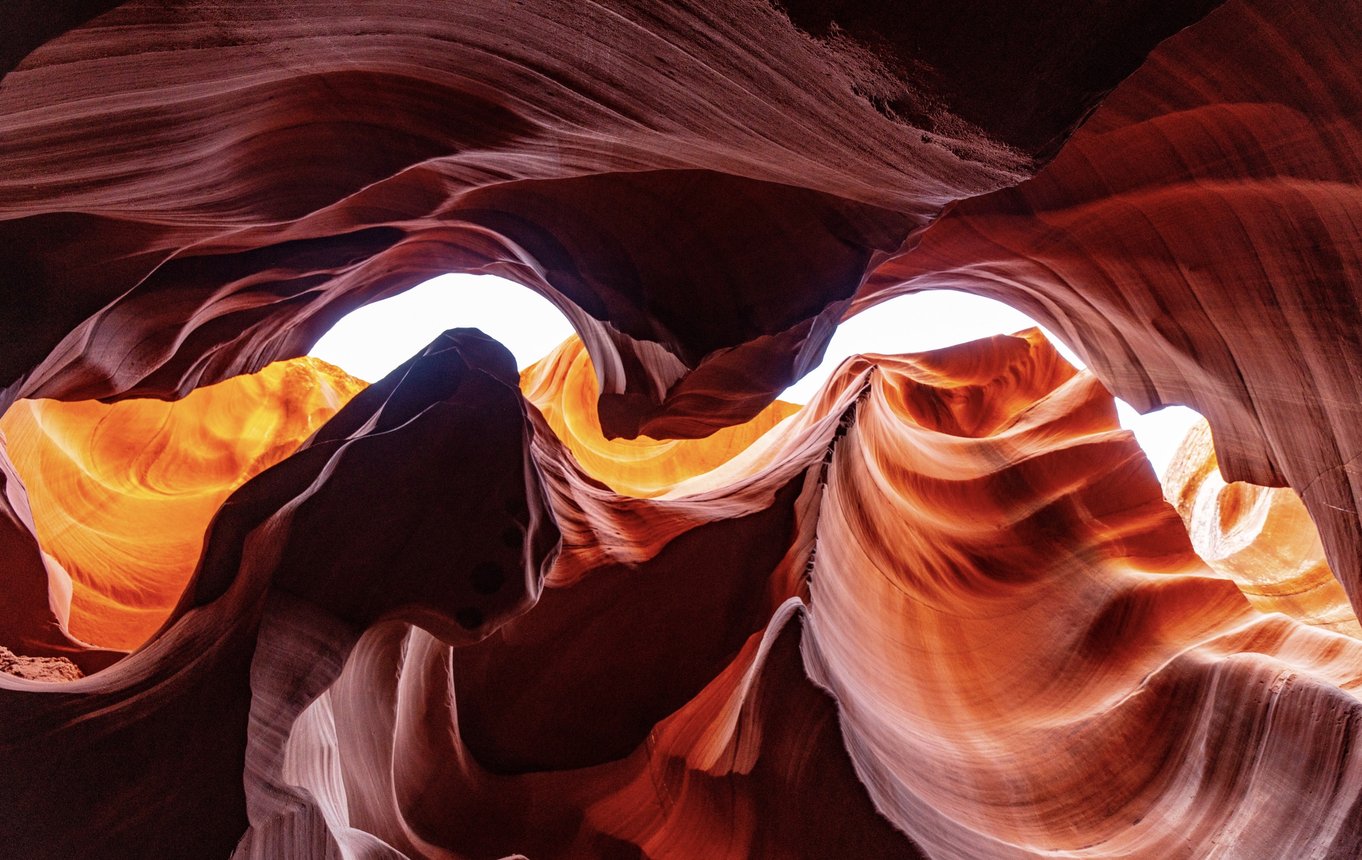
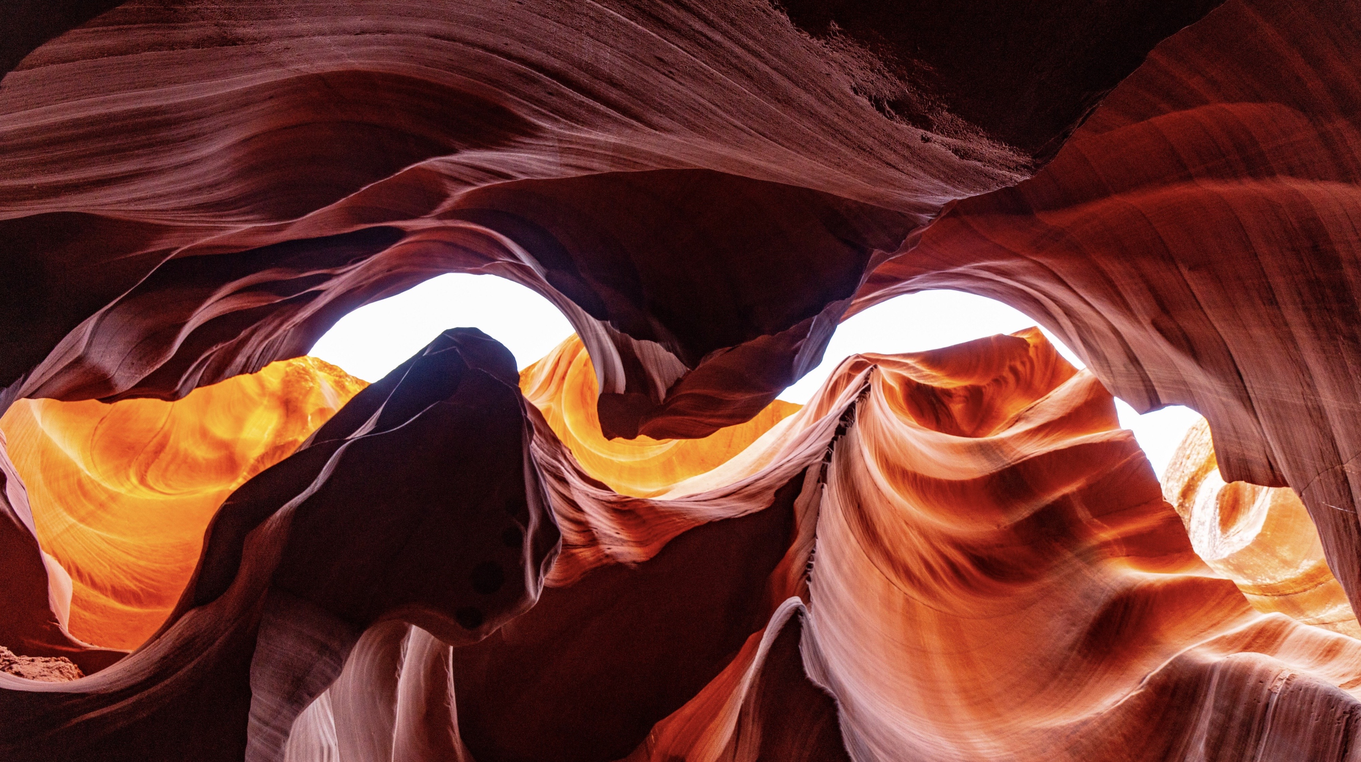
new changes

diff --git a/project/src/view/Home.vue b/project/src/view/Home.vue
@@ -1,7 +1,8 @@
 <template>
+
   <div>
-    <div class="container">
-      <img src="../assets/home_image.jpeg" class="image" style="width:100%;">
+    <div class="home_container">
+      <img src="../assets/home_image.jpeg" class="image">
       <div class="title">
         <i class="fa fa-globe"></i>
         Exploring the Globe  
@@ -19,16 +20,19 @@
       </div>
     </div>
   </div>
+
 </template>
 
 <script>
+  
 export default {
   name: 'Home' //this is the name of the component
 }
 </script>
+
 <style>
 /* Container holding the image and the text */
-.container {
+.home_container {
   position: relative;
   text-align: center;
   color: white;
@@ -60,19 +64,19 @@ export default {
   padding: 15px 42px;
 }
 
-.container:hover .image {
+.home_container:hover .image {
   opacity: 0.3;
 }
 
-.container:hover .title {
+.home_container:hover .title {
   color:black
 }
 
-.container:hover .about {
+.home_container:hover .about {
   color:black
 }
 
-.container:hover .btn-middle {
+.home_container:hover .btn-middle {
   opacity: 1;
 }
 
@@ -82,7 +86,8 @@ export default {
   height: auto;
   transition: .5s ease;
   backface-visibility: hidden;
-  object-fit: cover;
+  object-fit: contain;
+  width: 100%;
 }
 
 .centered {

diff --git a/project/src/router.js b/project/src/router.js
@@ -24,5 +24,6 @@ export default[
     {
       path: '/Contact',
       component: Contact
-    }
+    },
+    { path: '*', redirect: '/' }
 ]
